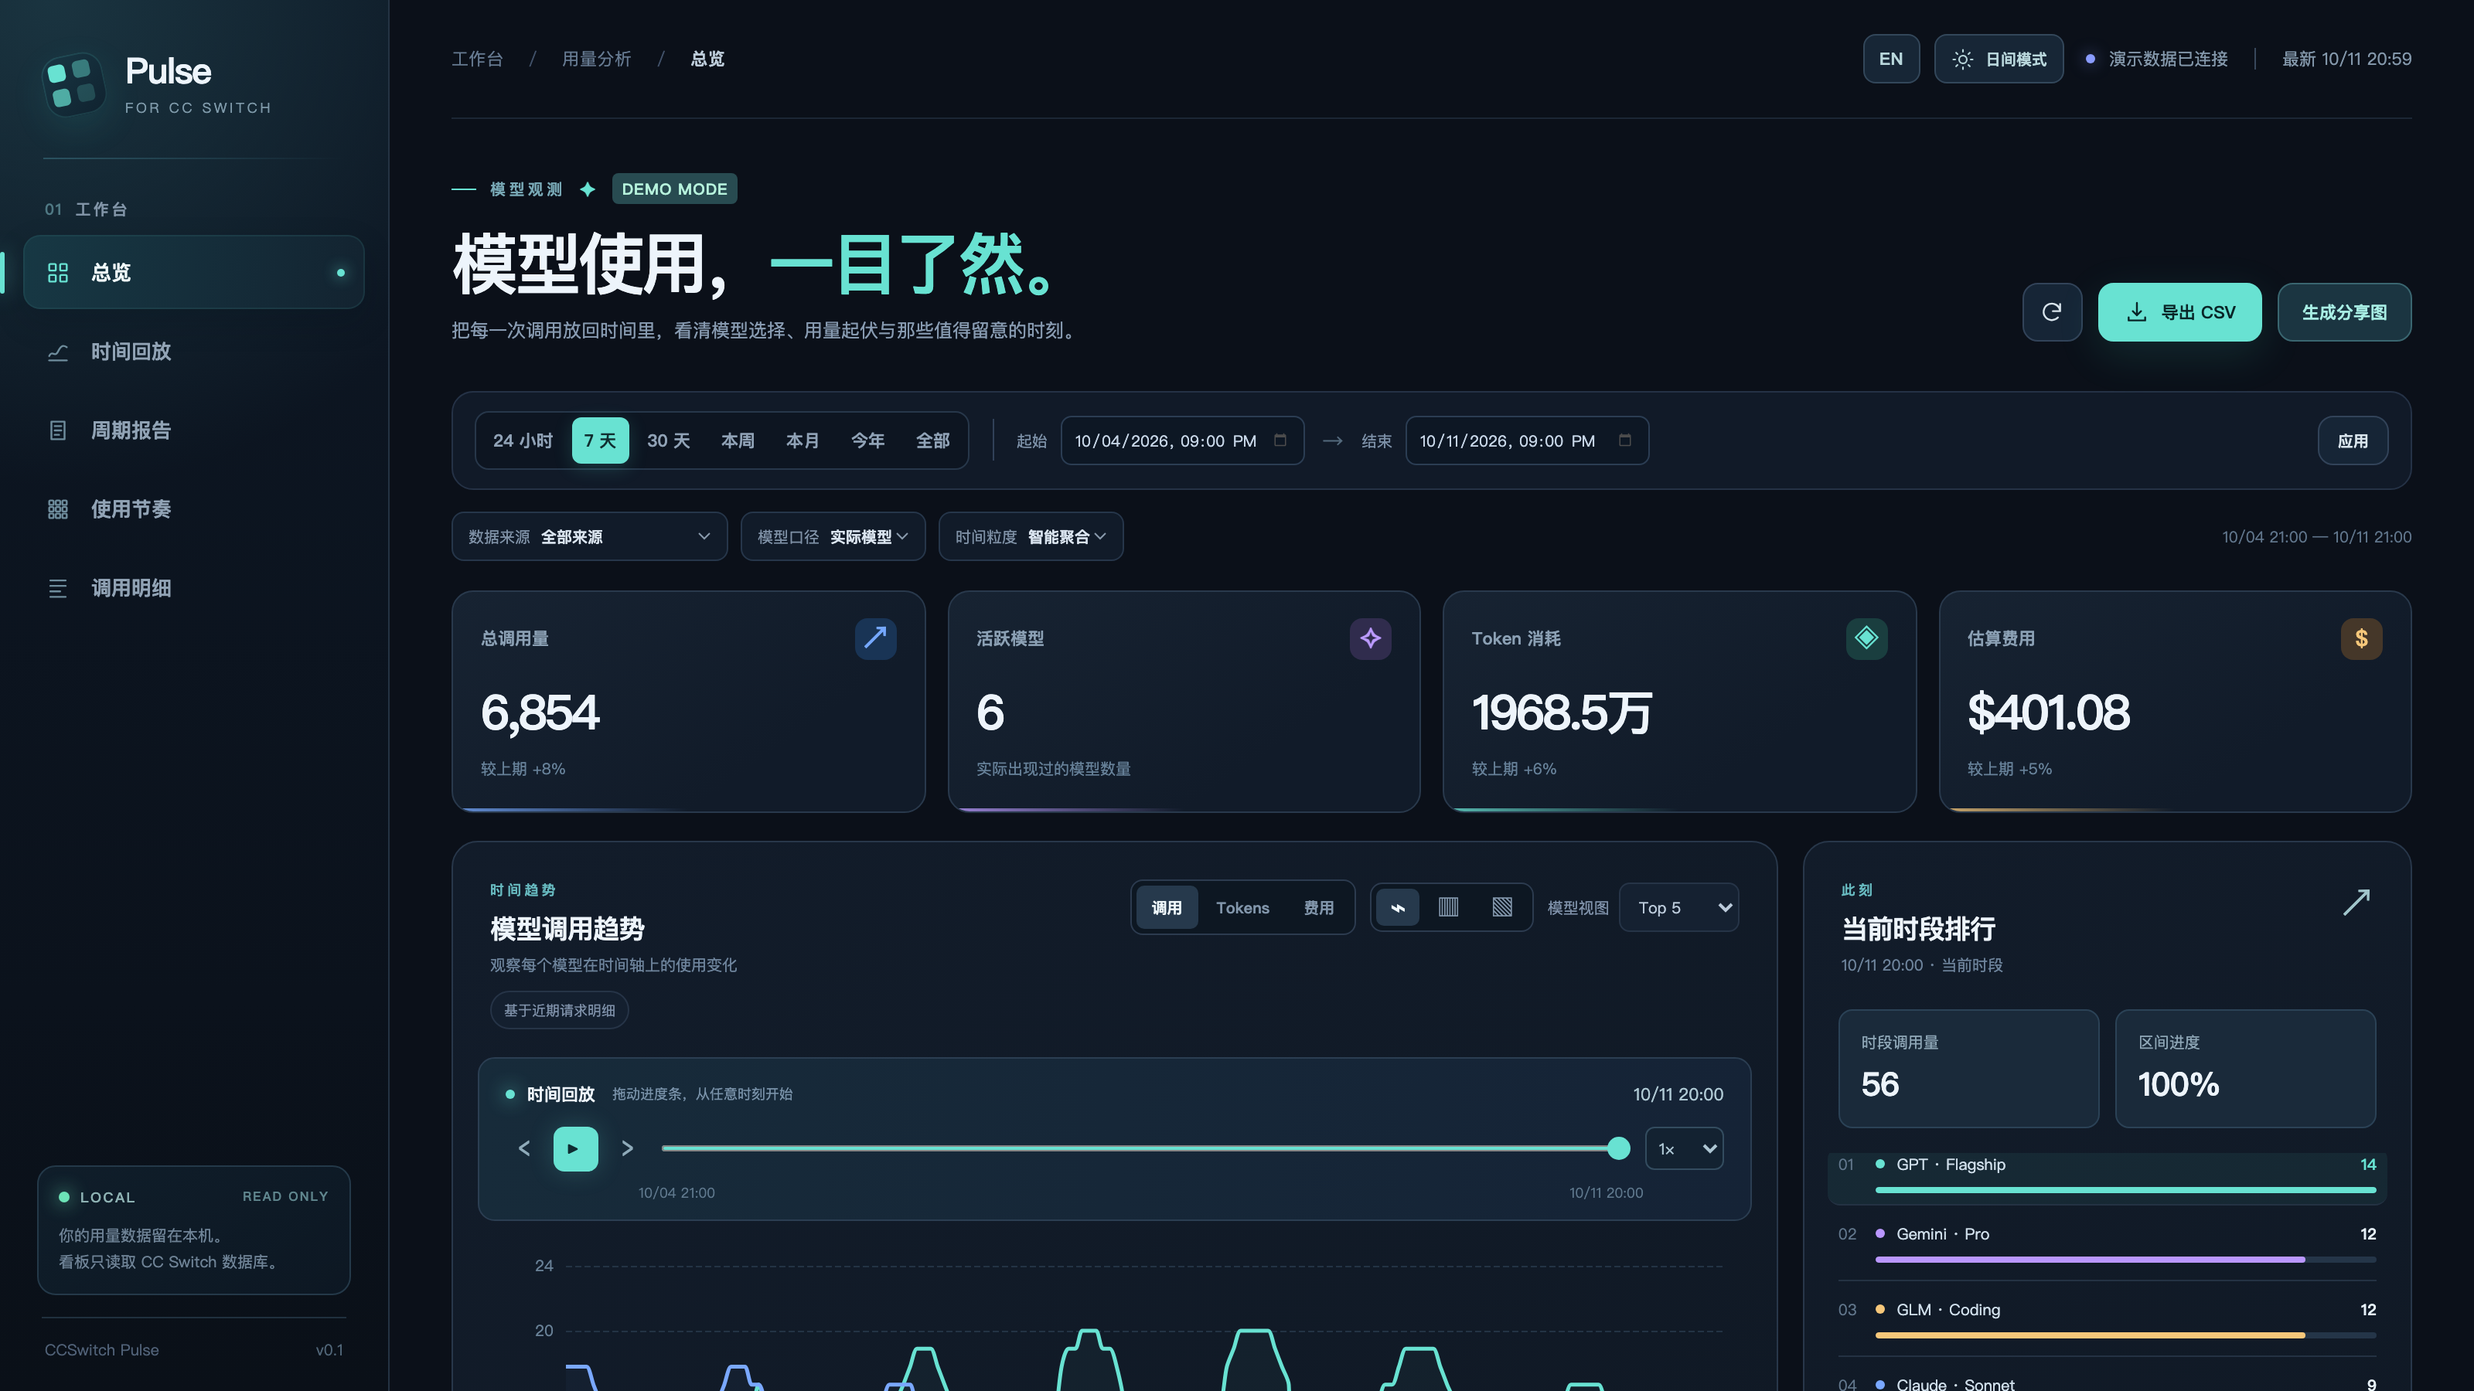
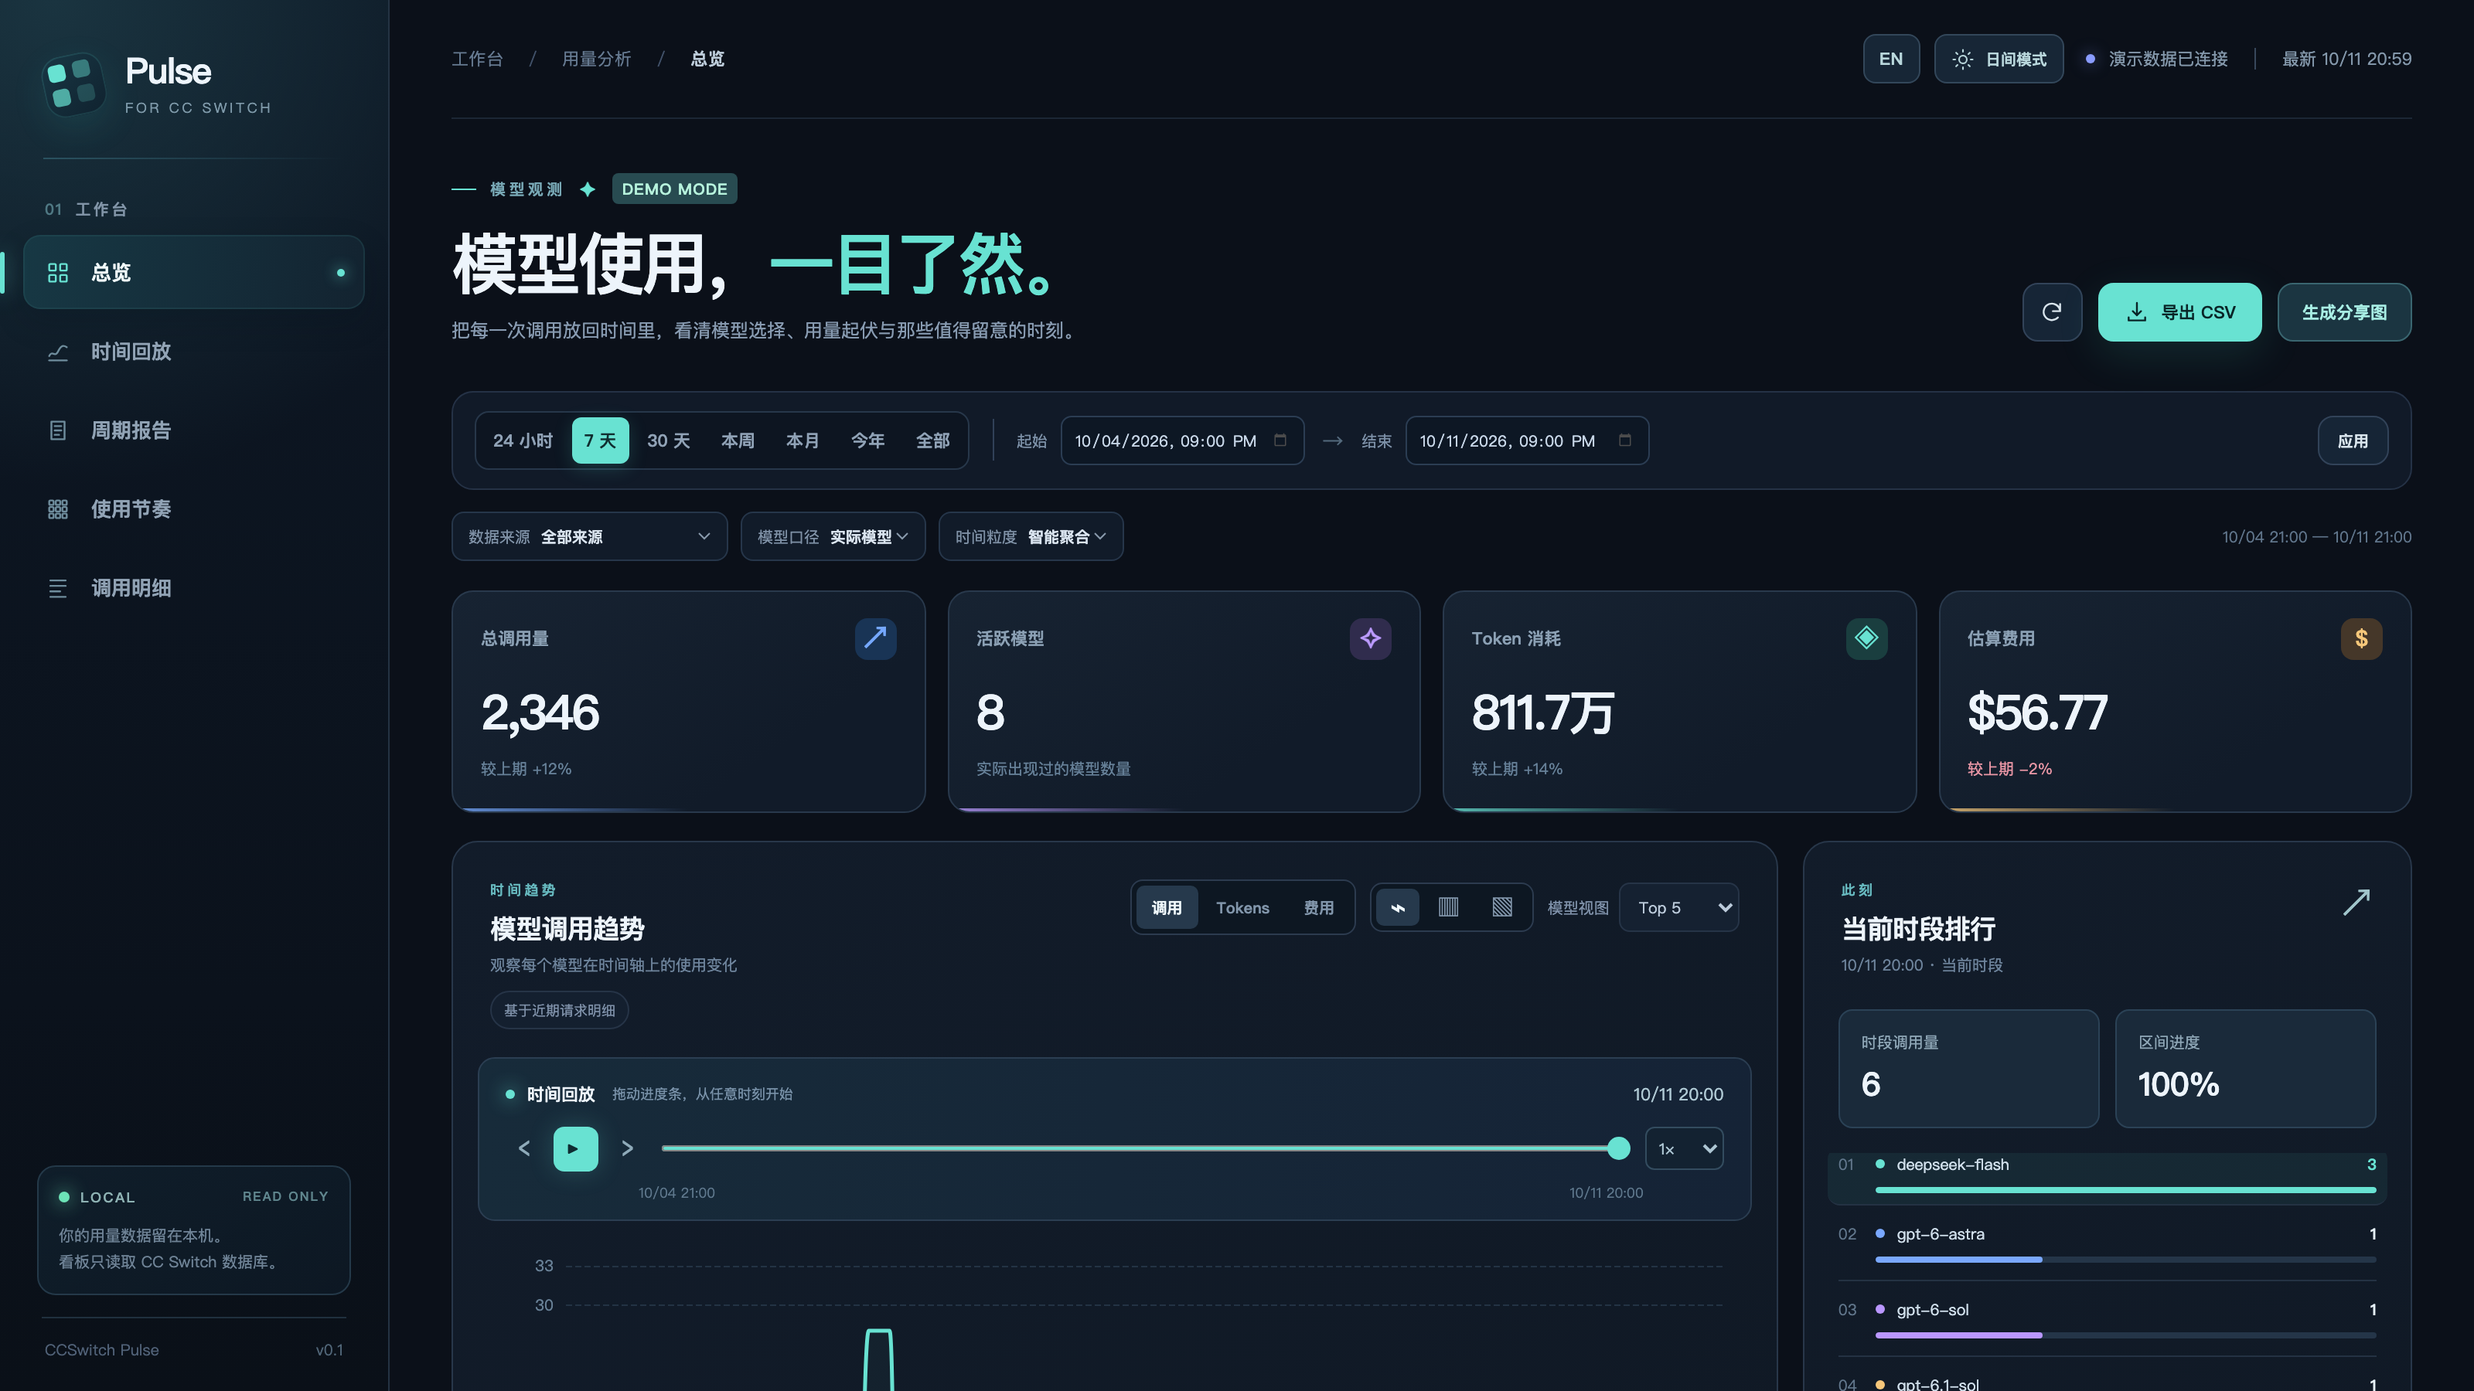
Use realistic demo profile and improve chart colors

diff --git a/src/demo.js b/src/demo.js
@@ -1,12 +1,18 @@
 import { summarize } from "./report.js";
 
-const NAMES = [
-  "GPT · Flagship",
-  "Claude · Sonnet",
-  "Gemini · Pro",
-  "GLM · Coding",
-  "Kimi · Thinking",
-  "DeepSeek · Reasoner",
+// The demo profile is derived from an aggregated local usage shape:
+// model names and relative usage patterns are representative, while every
+// timestamp, count, cost, and token total is synthetic and reproducible.
+const MODEL_PROFILES = [
+  { name: "deepseek-flash", weight: 15.0, tokens: 4200, cost: 0.006 },
+  { name: "gpt-6-astra", weight: 5.7, tokens: 2800, cost: 0.082 },
+  { name: "gpt-6-sol", weight: 3.1, tokens: 2600, cost: 0.036 },
+  { name: "gpt-6.1-sol", weight: 2.6, tokens: 3000, cost: 0.033 },
+  { name: "gpt-5.6-luna", weight: 1.5, tokens: 2200, cost: 0.012 },
+  { name: "codex-auto-review", weight: 1.1, tokens: 1800, cost: 0.001 },
+  { name: "gpt-5.6-sol", weight: 0.9, tokens: 2500, cost: 0.025 },
+  { name: "deepseek-v4-pro", weight: 0.74, tokens: 3000, cost: 0.014 },
+  { name: "glm-5.3", weight: 0.15, tokens: 2700, cost: 0.022 },
 ];
 const HOUR = 3600;
 const DAY = 86400;
@@ -22,50 +28,66 @@ const start = end - 30 * DAY;
 const historicalStart = start - 335 * DAY;
 const records = [];
 
+function sourceFor(index, profile) {
+  if (profile.name === "codex-auto-review") return "codex_session";
+  return index % 5 === 0 ? "codex_session" : "proxy";
+}
+
+function requestModelFor(name) {
+  if (name === "gpt-6.1-sol") return "gpt-6-sol";
+  if (name === "gpt-5.6-sol") return "gpt-6-sol";
+  return name;
+}
+
+function pushRecord({ time, profile, index, calls, historical }) {
+  if (calls <= 0) return;
+  records.push({
+    time,
+    model: profile.name,
+    requestModel: requestModelFor(profile.name),
+    source: sourceFor(index, profile),
+    calls,
+    tokens: calls * profile.tokens,
+    cost: calls * profile.cost,
+    historical,
+  });
+}
+
 for (let day = historicalStart; day < start; day += DAY) {
   const index = Math.floor((day - historicalStart) / DAY);
   const weekday = new Date(day * 1000).getUTCDay();
-  const rhythm = weekday === 0 || weekday === 6 ? 0.48 : 1;
-  for (let i = 0; i < NAMES.length; i++) {
-    const migration = i === 0 ? 0.7 + index / 420 : i === 1 ? 1.3 - index / 1000 : 1;
-    const wave = 1 + Math.sin(index * 0.115 + i * 1.3) * 0.17;
-    const calls = Math.max(1, Math.round((176 - i * 14) * rhythm * migration * wave));
-    records.push({
-      time: day + 12 * HOUR,
-      model: NAMES[i],
-      requestModel: i === 4 ? "Claude · Sonnet" : NAMES[i],
-      source: i % 3 === 0 ? "codex_session" : "proxy",
-      calls,
-      tokens: calls * (1750 + i * 440),
-      cost: calls * (0.028 + i * 0.012),
-      historical: true,
-    });
+  const cycle = 0.72 + Math.sin(index * 0.19) * 0.2 + Math.cos(index * 0.047) * 0.12;
+  const weekend = weekday === 0 || weekday === 6 ? 0.48 : 1;
+  const quiet = index % 37 === 0 || index % 53 === 0 ? 0.18 : 1;
+  for (const [profileIndex, profile] of MODEL_PROFILES.entries()) {
+    const modelWave = 1 + Math.sin(index * 0.13 + profileIndex * 1.7) * 0.18;
+    const calls = Math.round(profile.weight * 18 * cycle * weekend * quiet * modelWave);
+    pushRecord({ time: day + 12 * HOUR, profile, index: profileIndex, calls, historical: true });
   }
 }
 
 for (let hour = start; hour < end; hour += HOUR) {
-  const h = new Date(hour * 1000).getUTCHours();
+  const date = new Date(hour * 1000);
+  const hourOfDay = date.getUTCHours();
   const day = Math.floor((hour - start) / DAY);
-  for (let i = 0; i < NAMES.length; i++) {
-    const wave =
-      Math.sin(day * 0.53 + i * 1.7) * 0.35 + Math.cos(h * 0.37 + i) * 0.22;
-    const work = h >= 9 && h <= 22 ? 1 : 0.28;
-    const pulse = day === 12 && h >= 13 && h <= 19 && i === 1 ? 2.4 : 1;
-    const calls = Math.max(
-      0,
-      Math.round((13 - i * 1.45) * work * (1 + wave) * pulse),
+  const weekday = date.getUTCDay();
+  const workWindow = hourOfDay >= 8 && hourOfDay <= 23 ? 1 : 0.16;
+  const weekend = weekday === 0 || weekday === 6 ? 0.42 : 1;
+  const dayWave = 0.82 + Math.sin(day * 0.61) * 0.18 + Math.cos(day * 0.17) * 0.1;
+  const burst =
+    day === 16 && hourOfDay >= 13 && hourOfDay <= 18
+      ? 2.7
+      : day === 24 && hourOfDay >= 9 && hourOfDay <= 12
+        ? 1.9
+        : day === 28 && hourOfDay >= 19 && hourOfDay <= 22
+          ? 1.55
+          : 1;
+  for (const [profileIndex, profile] of MODEL_PROFILES.entries()) {
+    const modelWave = 1 + Math.sin(day * 0.37 + profileIndex * 1.31) * 0.22;
+    const calls = Math.round(
+      profile.weight * 0.95 * workWindow * weekend * dayWave * burst * modelWave,
     );
-    if (!calls) continue;
-    records.push({
-      time: hour,
-      model: NAMES[i],
-      requestModel: i === 4 ? "Claude · Sonnet" : NAMES[i],
-      source: i % 3 === 0 ? "codex_session" : "proxy",
-      calls,
-      tokens: calls * (1850 + i * 520),
-      cost: calls * (0.031 + i * 0.014),
-      historical: false,
-    });
+    pushRecord({ time: hour, profile, index: profileIndex, calls, historical: false });
   }
 }
 
@@ -112,22 +134,14 @@ export function getDemoSeries(range) {
     )
       continue;
     if (row.historical) historicalRows.push(row);
-    const model =
-      range.modelMode === "requested" ? row.requestModel : row.model;
+    const model = range.modelMode === "requested" ? row.requestModel : row.model;
     const origin = range.bucket === 604800 ? 345600 : 0;
     const time =
-      Math.floor((row.time + range.offset - origin) / range.bucket) *
-        range.bucket +
+      Math.floor((row.time + range.offset - origin) / range.bucket) * range.bucket +
       origin -
       range.offset;
     const key = `${time}\u0000${model}`;
-    const entry = grouped.get(key) || {
-      bucket: time,
-      model,
-      calls: 0,
-      tokens: 0,
-      cost: 0,
-    };
+    const entry = grouped.get(key) || { bucket: time, model, calls: 0, tokens: 0, cost: 0 };
     entry.calls += row.calls;
     entry.tokens += row.tokens;
     entry.cost += row.cost;
@@ -141,9 +155,7 @@ export function getDemoSeries(range) {
   totals.cost = Math.round(totals.cost * 1e6) / 1e6;
   return {
     range,
-    rows: [...grouped.values()].sort(
-      (a, b) => a.bucket - b.bucket || a.model.localeCompare(b.model),
-    ),
+    rows: [...grouped.values()].sort((a, b) => a.bucket - b.bucket || a.model.localeCompare(b.model)),
     totals,
     coverage: {
       rawFirst: start,
@@ -186,16 +198,13 @@ export function getDemoReport(range, period = "custom", compare = null) {
     ? { ...daily, from: compare.from, to: compare.to }
     : { ...daily, from: range.from - (range.to - range.from), to: range.from };
   const previous = period === "all" ? null : summarize(getDemoSeries(compareRange));
-  const change = (key) =>
-    previous?.[key] ? (current[key] - previous[key]) / previous[key] : null;
+  const change = (key) => previous?.[key] ? (current[key] - previous[key]) / previous[key] : null;
   return {
     period,
     range,
     current,
     previous,
-    changes: previous
-      ? { calls: change("calls"), tokens: change("tokens"), cost: change("cost") }
-      : null,
+    changes: previous ? { calls: change("calls"), tokens: change("tokens"), cost: change("cost") } : null,
     coverage: currentSeries.coverage,
   };
 }
@@ -213,14 +222,7 @@ export function getDemoSessions(range) {
       continue;
     const day = localDateKey(row.time, range.offset);
     const model = range.modelMode === "requested" ? row.requestModel : row.model;
-    const entry = sessions.get(day) || {
-      first: row.time,
-      last: row.time,
-      calls: 0,
-      tokens: 0,
-      cost: 0,
-      names: new Set(),
-    };
+    const entry = sessions.get(day) || { first: row.time, last: row.time, calls: 0, tokens: 0, cost: 0, names: new Set() };
     entry.first = Math.min(entry.first, row.time);
     entry.last = Math.max(entry.last, row.time);
     entry.calls += row.calls;
@@ -231,15 +233,12 @@ export function getDemoSessions(range) {
   }
   return {
     available: true,
-    rows: [...sessions.values()]
-      .sort((a, b) => b.last - a.last)
-      .slice(0, 12)
-      .map(({ names, ...row }) => ({
-        ...row,
-        models: names.size,
-        modelNames: [...names],
-        cost: Math.round(row.cost * 1e6) / 1e6,
-      })),
+    rows: [...sessions.values()].sort((a, b) => b.last - a.last).slice(0, 12).map(({ names, ...row }) => ({
+      ...row,
+      models: names.size,
+      modelNames: [...names],
+      cost: Math.round(row.cost * 1e6) / 1e6,
+    })),
   };
 }
 
@@ -257,8 +256,7 @@ export function getDemoHeatmap(range) {
     const weekday = local.getUTCDay();
     const hour = local.getUTCHours();
     const key = `${weekday}\u0000${hour}`;
-    const entry =
-      cells.get(key) || { weekday, hour, calls: 0, tokens: 0, cost: 0 };
+    const entry = cells.get(key) || { weekday, hour, calls: 0, tokens: 0, cost: 0 };
     entry.calls += row.calls;
     entry.tokens += row.tokens;
     entry.cost += row.cost;
@@ -266,9 +264,7 @@ export function getDemoHeatmap(range) {
   }
   return {
     available: true,
-    rows: [...cells.values()].sort(
-      (a, b) => a.weekday - b.weekday || a.hour - b.hour,
-    ),
+    rows: [...cells.values()].sort((a, b) => a.weekday - b.weekday || a.hour - b.hour),
     detailOnly: true,
   };
 }

diff --git a/public/app.js b/public/app.js
@@ -8,6 +8,21 @@ const SHARE_COLORS = {
   dark: ["#73d6c9", "#86a8e6", "#aa93d9", "#dbb66f", "#d88b9d", "#86bb9e"],
   light: ["#2f918b", "#4c74c4", "#795fae", "#a87725", "#b25d76", "#4f8b6e"],
 };
+const MODEL_COLOR_OVERRIDES = {
+  "deepseek-flash": 0,
+  "gpt-6-astra": 1,
+  "gpt-6-sol": 2,
+  "gpt-6.1-sol": 3,
+  "gpt-5.6-luna": 4,
+  "codex-auto-review": 5,
+  "gpt-5.6-sol": 6,
+  "deepseek-v4-pro": 7,
+  "glm-5.3": 8,
+  "qwen3.8-max": 9,
+  "unknown": 10,
+  "grok-4.6": 11,
+};
+
 const COLORS = {
   dark: [
     "#68e2d2",
@@ -165,11 +180,7 @@ function sourceName(source) {
 function colorFor(model) {
   if (!state.colors.has(model)) {
     const normalized = String(model).toLowerCase();
-    const preferred = [
-      ["gpt", 0], ["claude", 1], ["gemini", 2], ["glm", 3],
-      ["kimi", 4], ["deepseek", 5], ["qwen", 6], ["minimax", 7],
-    ].find(([name]) => normalized.includes(name));
-    let index = preferred?.[1];
+    let index = MODEL_COLOR_OVERRIDES[normalized];
     if (index == null) {
       let hash = 2166136261;
       for (const char of normalized) {
@@ -1534,6 +1545,19 @@ function exportReport() {
 $("#report-download").addEventListener("click", exportReport);
 
 let shareCanvas;
+function drawSmoothPath(ctx, points) {
+  if (!points.length) return;
+  ctx.moveTo(points[0].x, points[0].y);
+  for (let index = 0; index < points.length - 1; index++) {
+    const p0 = points[index - 1] || points[index];
+    const p1 = points[index];
+    const p2 = points[index + 1];
+    const p3 = points[index + 2] || p2;
+    const cp1 = { x: p1.x + (p2.x - p0.x) / 6, y: p1.y + (p2.y - p0.y) / 6 };
+    const cp2 = { x: p2.x - (p3.x - p1.x) / 6, y: p2.y - (p3.y - p1.y) / 6 };
+    ctx.bezierCurveTo(cp1.x, cp1.y, cp2.x, cp2.y, p2.x, p2.y);
+  }
+}
 function drawShareCard() {
   const report = state.report;
   if (!report?.current.calls) return null;
@@ -1767,26 +1791,23 @@ function drawShareCard() {
     const fill = ctx.createLinearGradient(0, top, 0, top + height);
     fill.addColorStop(0, light ? "#0c817a44" : "#68e2d244");
     fill.addColorStop(1, light ? "#0c817a00" : "#68e2d200");
+    const points = bins.map((value, index) => ({
+      x: left + (index / (binCount - 1)) * width,
+      y: top + height - (value / max) * (height - 18),
+    }));
     ctx.beginPath();
-    bins.forEach((value, i) => {
-      const x = left + (i / (binCount - 1)) * width;
-      const y = top + height - (value / max) * (height - 18);
-      if (i === 0) ctx.moveTo(x, y); else ctx.lineTo(x, y);
-    });
+    drawSmoothPath(ctx, points);
     ctx.lineTo(left + width, top + height);
     ctx.lineTo(left, top + height);
     ctx.closePath();
     ctx.fillStyle = fill;
     ctx.fill();
     ctx.beginPath();
-    bins.forEach((value, i) => {
-      const x = left + (i / (binCount - 1)) * width;
-      const y = top + height - (value / max) * (height - 18);
-      if (i === 0) ctx.moveTo(x, y); else ctx.lineTo(x, y);
-    });
+    drawSmoothPath(ctx, points);
     ctx.strokeStyle = accent;
     ctx.lineWidth = 4;
     ctx.lineJoin = "round";
+    ctx.lineCap = "round";
     ctx.stroke();
   }
   if (!mix) {

diff --git a/README.en.md b/README.en.md
@@ -15,7 +15,7 @@
 
 ![CCSwitch Pulse dark theme](docs/images/dashboard-dark-en.png)
 
-> Screenshots use synthetic demo data and contain no personal usage records. CCSwitch Pulse targets desktop browsers and supports Chinese, English, light, and dark themes.
+> Screenshots use fixed-anchor synthetic data and contain no personal usage records. Model names and distribution shapes follow the structure of aggregated local usage, not copied records. CCSwitch Pulse targets desktop browsers and supports Chinese, English, light, and dark themes.
 
 ## Quick start
 

diff --git a/README.md b/README.md
@@ -15,7 +15,7 @@
 
 ![CCSwitch Pulse 深色主题](docs/images/dashboard-dark-zh.png)
 
-> 截图使用内置合成数据，不包含个人调用记录。CCSwitch Pulse 面向桌面浏览器，支持中英文、浅色和深色主题。
+> 截图使用固定锚点的合成数据，不包含个人调用记录；模型名称和分布形状参考本地聚合数据的结构，不复制真实记录。CCSwitch Pulse 面向桌面浏览器，支持中英文、浅色和深色主题。
 
 ## 快速开始
 
